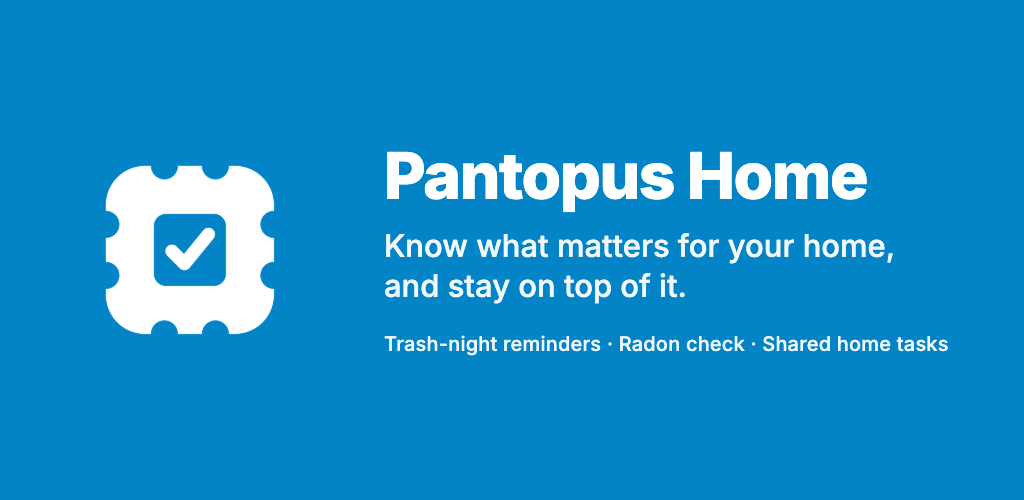
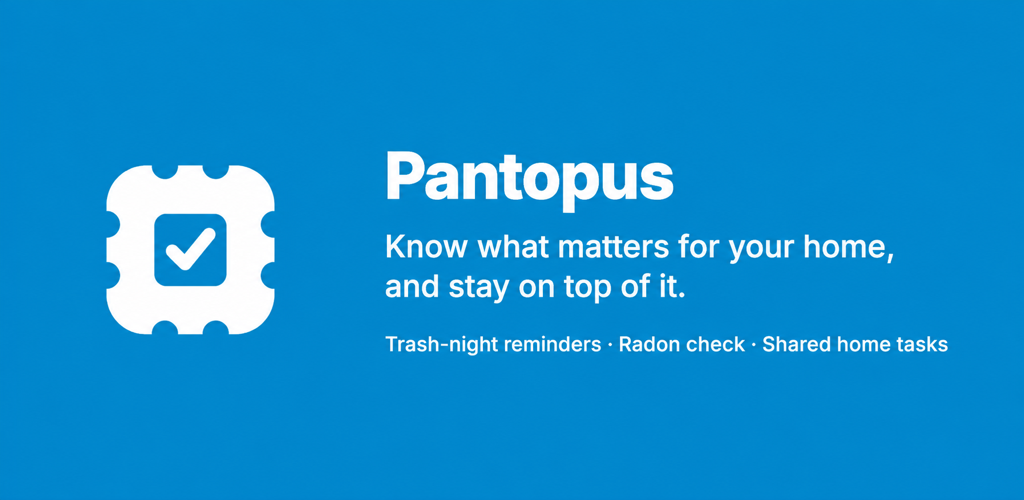
Prepare 2.0.4 updates for the original Pantopus store apps

diff --git a/frontend/apps/web/tests/associationFiles.test.ts b/frontend/apps/web/tests/associationFiles.test.ts
@@ -88,7 +88,7 @@ describe('tools/gen-association-files.mjs', () => {
     fs.rmSync(dir, { recursive: true, force: true });
   });
 
-  test('upserts the native Android statement, keeps legacy entries, is idempotent, --check agrees', () => {
+  test('upserts the published Android statement, keeps pilot entries, is idempotent, --check agrees', () => {
[1 lines of base64/hex data omitted]
     const fp2 = '11:22:33:44:55:66:77:88:99:00:aa:bb:cc:dd:ee:ff:11:22:33:44:55:66:77:88:99:00:aa:bb:cc:dd:ee:ff';
     const env = { WELL_KNOWN_DIR: dir, APPLE_TEAM_ID: '6UYZBA546R', ANDROID_SHA256_FINGERPRINTS: `${fp1}, ${fp2}` };
@@ -97,8 +97,10 @@ describe('tools/gen-association-files.mjs', () => {
     expect(runGenerator(env).code).toBe(0);
 
     const list = readJson(path.join(dir, 'assetlinks.json'));
-    expect(list.find((s: any) => s.target.package_name === LEGACY_ANDROID)).toBeTruthy();
-    const native = list.find((s: any) => s.target.package_name === NATIVE_ANDROID);
+    expect(list.find((s: any) => s.target.package_name === NATIVE_ANDROID)).toEqual(
+      readJson(ASSETLINKS).find((s: any) => s.target.package_name === NATIVE_ANDROID),
+    );
+    const native = list.find((s: any) => s.target.package_name === LEGACY_ANDROID);
     expect(native.relation).toEqual([
       'delegate_permission/common.handle_all_urls',
       'delegate_permission/common.get_login_creds',
@@ -123,7 +125,7 @@ describe('tools/gen-association-files.mjs', () => {
     const env = { WELL_KNOWN_DIR: dir, APPLE_TEAM_ID: 'ZZZZZZZZZZ' };
     expect(runGenerator(env).code).toBe(0);
     const aasa = readJson(path.join(dir, 'apple-app-site-association'));
-    expect(aasa.applinks.details.map((d: any) => d.appID)).toEqual([LEGACY_IOS, NATIVE_IOS, 'ZZZZZZZZZZ.app.pantopus.ios']);
+    expect(aasa.applinks.details.map((d: any) => d.appID)).toEqual([LEGACY_IOS, NATIVE_IOS, 'ZZZZZZZZZZ.com.pantopus.app']);
   });
 
   test('rejects malformed fingerprints / team ids and refuses to run with nothing to do', () => {

diff --git a/scripts/android/home-task-recurrence-journey.py b/scripts/android/home-task-recurrence-journey.py
@@ -17,7 +17,7 @@ import time
 import urllib.request
 import xml.etree.ElementTree as ET
 
-PACKAGE = 'app.pantopus.android.debug'
+PACKAGE = 'com.pantopus.app.debug'
 ACTIVITY = PACKAGE + '/app.pantopus.android.MainActivity'
 AVD = 'Pantopus_Home_Recurrence_Acceptance'
 ORIGIN = 'http://127.0.0.1:18083'

diff --git a/docs/release/prod-config-checklist.md b/docs/release/prod-config-checklist.md
@@ -191,20 +191,13 @@ Each has a default that the steps below follow until you change it here.
   `api.pantopus.app`, which has no DNS; L4 switches them.) Also point
   `pantopus.app` and `www.pantopus.app` at the website (step P10): the apps share
   `https://pantopus.app` links.
-- [x] **D2 Store listings.** Decided October 6, as recommended. Default: new listings for `app.pantopus.ios` and
-  `app.pantopus.android`; take the April apps off sale once the new ones are
-  live. The App Store won't accept a second app named exactly "Pantopus" while
-  the April app holds that name, so either give the new listing a longer name
-  (for example "Pantopus Home") or rename the April app first with an update.
-  The alternative, shipping the native apps as updates to `com.pantopus.app`,
-  means changing the native app IDs, push setup and signing; L4 doesn't
-  recommend it this close to the pilot.
+- [x] **D2 Store listings.** **Replaced October 23 by the founder:** update the existing **Pantopus** listings, using `com.pantopus.app` on both platforms. iOS App Store ID `6760512315`; Google Play app ID `4974977490173375457`. Prepare **2.0.4** as the next update. Do not rename the original app, take it off sale, or publish the separate Pantopus Home records (`6821263216` / `app.pantopus.ios`, and `app.pantopus.android`). Earlier October 6–22 new-listing instructions and build evidence below are historical.
 - [x] **D3 Production database.** Decided October 8: create a new production
   Supabase project from the canonical migrations and transfer April users'
   logins and matching app profiles after an isolated rehearsal. Preserve the
   Auth identities needed for email, Google and Apple sign-in; leave April's
   Homes, Trains and other product data in the old project. The founder runs
-  the reviewed production import. See [the Auth transfer runbook](production-auth-transfer.md).
+  the reviewed production import. **Reconfirmed October 23:** transfer sign-ins and matching profiles only; existing users start with fresh content. Complete old-account sign-in checks before releasing 2.0.4. See [the Auth transfer runbook](production-auth-transfer.md).
 - [x] **D4 Payments during the pilot.** Decided October 6, as recommended. Default: production uses Stripe **test**
   keys until you activate live payments; no pilot journey takes money. Pilot
   store builds then carry the matching `pk_test_` key (L4 adjusts the Android
@@ -1120,6 +1113,66 @@ dispute opens.
 
 ## 4. Store builds
 
+### Current direction — October 23: update the original Pantopus apps
+
+This section supersedes the historical signing/upload instructions below. Both stores still serve 1.5.0. The next intended version is **2.0.4**; do not trigger a beta upload until its signing and service configuration are correct.
+
+| Setting | Required value |
+|---|---|
+| iOS record / main bundle | `6760512315` / `com.pantopus.app` |
+| iOS widget bundle | `com.pantopus.app.widgets` |
+| iOS signing team | `6UYZBA546R` (same as published 1.5.0) |
+| App Group | Reuse `group.app.pantopus.ios`; both original app and renamed widget need membership and matching profiles |
+| Android record / application ID | `4974977490173375457` / `com.pantopus.app` |
+| Android Kotlin namespace | Keep `app.pantopus.android`; this is source packaging, not the store identity |
+| Android debug application ID | `com.pantopus.app.debug` |
+| Store title | `Pantopus` |
+
+- [x] Read the original records: iOS 1.5.0 (84), iPhone family, team `6UYZBA546R`; Android original production listing exists. The old Android Play-signing SHA-256 matches the repository's `com.pantopus.app` association.
+- [x] Created the original iOS record's **2.0.4 / Prepare for Submission** draft, with current description, subtitle, keywords, promotional text, update notes, support/marketing links and reviewer instructions. Manual release is selected. Updated age-rating answers (13+ in most regions) and content-rights information to the current app's answers. No build is selected or submitted.
+- [x] Saved the original Play listing's current title, descriptions, icon, feature graphic and four phone screenshots as a draft. Removed obsolete tablet screenshot references; no new tablet screenshots are claimed. No changes were sent for review.
+- [x] Replaced repository store screenshots with actual October 23 native captures of welcome, Place, Today and household tasks. iPhone images are 1320×2868 (large Dynamic Island display); Android images are 1080×2400. Synthetic test household only. Apple's four images are saved in the large-display slot and inherited by smaller sizes; obsolete 1.5.0 screenshot references were removed from the editable version.
+- [x] Saved an additive Play Data safety draft: optional health/audio collection, device-ID functionality/security purposes, contact account-management purposes, and the current account-deletion URL. Kept existing legacy declarations pending a review covering every distributed version. See the compliance document's transition note; this is not final compliance approval.
+- [x] Local checks: iOS simulator build and Android debug assembly passed under the restored identities; Android ktlint/detekt, both Ruby Fastfile syntax checks, existing native-config tests (6), and association-file tests (5) passed. Both apps signed into a real local backend/database and displayed the same synthetic home/tasks. Created tasks persisted across iOS relaunch and were visible on Android; Android sign-in persisted after force-stop/relaunch. Initial native evidence used base `fc3223d3f`; these checks do not prove release signing, old-account transfer or a physical upgrade.
+- [ ] iOS: the original App ID already has Apple sign-in, push and associated domains. **App Groups is not enabled**, and `com.pantopus.app.widgets` was absent on October 23. Assign the existing `group.app.pantopus.ios` to the original app and register/assign the renamed widget. Generate matching App Store profiles in the signing repository; CI's readonly match cannot create them. Reuse the team's distribution certificate where valid.
+- [ ] Android: supply the **original app's upload keystore**. Its downloaded upload certificate has SHA-256 `20:D3:0B:09:8D:06:A4:E1:9D:E1:40:65:EF:70:96:55:EF:4D:F7:91:BB:89:BB:DA:33:48:F7:0B:B1:F3:FB:8B`. The saved Pantopus Home upload key is different and cannot upload an update to the original app. Recover the original key from the prior build service/local backup; a Play upload-key reset is a separate founder action if recovery fails. Do not rotate the Play app-signing key.
+- [ ] Android: the release Firebase JSON must contain `com.pantopus.app` in the backend's FCM project; staging debug needs `com.pantopus.app.debug`. The checked-in file is a build-only placeholder. Match Maps/OAuth restrictions to the original package and its Play-signing certificate. Ensure the existing Play service account can access the original listing.
+- [ ] Founder: align production `APNS_BUNDLE_ID=com.pantopus.app` with the release and verify a physical push. The backend currently has one global APNs topic; changing it does not also support the separate `app.pantopus.ios` pilot tokens. Keep this coordinated with the release, rather than changing only the native build.
+- [ ] Complete D3's Auth/profile transfer and verify old email/password, Google and Apple sign-ins as applicable; fresh content is the approved behavior. Explain the content reset in the store update notes. New minimum iOS is 17; the old build supported 15.1.
+- [ ] Validate a fresh install, and then an in-place **1.5.0 → 2.0.4** update on physical phones without uninstalling. Check sign-in, notification taps, links, widgets, relaunch, and old local data handling. Simulator/emulator builds alone cannot establish a store-signed upgrade.
+- [ ] Upload signed builds to the original records. Existing 2.0.x uploads under the separate identities cannot be moved across records. iOS build numbers come from the original TestFlight history; Android version codes must exceed every used code on the original listing.
+- [ ] Finish privacy labels/Data safety and verify dedicated reviewer access against production. Apple privacy's final data-type action is **Publish and Continue**, so the form was cancelled without publishing; reconcile the live 1.5.0 collection before the cutover. Play's additive draft still needs the legacy/current-version review and its separate data-deletion URL verified. Review credentials were not replaced or validated. The App Store icon comes from the new binary; uploading screenshots alone does not replace it.
+- [ ] Founder submits and releases after these gates pass. Use manual release on iOS and keep Android listing/release edits unsubmitted while preparing.
+
+Draft-only listing commands (after loading the correct private credentials):
+
+```sh
+# frontend/apps/ios; saves metadata/screenshots without a binary or review submission
+bundle exec fastlane listing version:2.0.4
+# frontend/apps/android; commits listing edits without sending changes for review
+bundle exec fastlane listing
+```
+
+The `release` lanes submit/promote builds and remain founder actions. The existing store links on the website already point to the correct original records.
+
+**Android key recovery, October 23:** no file matching the original upload
+certificate was found in the checked Mac locations (Downloads, Documents,
+Desktop, cloud-storage folders, Expo/EAS config folders, Library keystore
+files, or the old source ZIP). The old Expo/EAS account or an external backup
+could still hold it. The certificate downloaded from Play is public and cannot
+sign a build. If recovery fails, use **App integrity → App signing → Request
+upload key reset** on the original record. A replacement upload key only
+changes what Google accepts for uploads; keep Play's existing app-signing key
+so installed users retain their update path. A usable private upload key
+already exists on this Mac for the separate pilot; the founder can choose to
+register its public PEM certificate as the replacement instead of creating
+another key. No key reset, credential upload or hosted secret change was
+performed in this preparation. After Google's reset is effective, align the
+private release signing values and validate a signed internal-track update.
+
+### Historical October 6–22 setup (different app identities)
+
+
 ### iOS (TestFlight, then App Store)
 
 - [x] Already registered (found October 13; see the verification section at the
@@ -1198,7 +1251,7 @@ native access checks; passing data and offline checks alone does not close this 
 
 - [x] Founder approved the listing text, screenshots, privacy answers and the
   account-deletion page on October 7 (decisions A and B are written into the
-  privacy scripts). Both listings use the name "Pantopus Home" per D2.
+  privacy scripts). The October 23 D2 amendment changes both store titles to "Pantopus".
 - [x] L4: the approved files are where the lanes read them. iOS: text in
   `frontend/apps/ios/fastlane/metadata/en-US/` and 8 iPhone screenshots
   (6.9-inch, 1320 × 2868) in `frontend/apps/ios/fastlane/screenshots/en-US/`;

diff --git a/docs/persistent-login/ASSOCIATION-FILES.md b/docs/persistent-login/ASSOCIATION-FILES.md
@@ -14,39 +14,26 @@ They gate four things the design depends on:
 | `assetlinks.json` → `common.handle_all_urls` | Android App Links (`autoVerify`) | same deep links on Android |
 | `assetlinks.json` → `common.get_login_creds` | Credential Manager: saved passwords / passkeys / Sign in with Google for the app are shared with the site | L3 on Android (Phase 3) |
 
-## Current state (2026-08-18)
+## Current state (October 23, 2026)
 
-- **iOS — done.** `6UYZBA546R.app.pantopus.ios` was added to `applinks.details`
-  (same paths as the legacy entry) and to `webcredentials.apps`. The legacy Expo
-  entry `6UYZBA546R.com.pantopus.app` is kept until that app is retired.
-  ⚠ The Team ID `6UYZBA546R` is inherited from the Expo app; the native
-  project's `DEVELOPMENT_TEAM` is intentionally blank in
-  `frontend/apps/ios/project.yml`. **Confirm the native app is signed by the
-  same team** (Xcode → Signing & Capabilities → Team, or
-  `security find-identity -v -p codesigning`). If it is a different team, rerun
-  the generator with the right `APPLE_TEAM_ID`.
-- **Android — source updated October 21, 2026.** `app.pantopus.android` now
-  carries the current Play app-signing certificate published in Play Console's
-  Digital Asset Links JSON, plus the two certificates in its previous
-  quantum-ready signing-key download (first used October 16). The public DER
-  certificate fingerprints were verified with `openssl x509 -fingerprint -sha256`.
-  The existing generator preserves the legacy `com.pantopus.app` statement and
-  supplies both App Links and Credential Manager relations. No debug or upload
-  certificate is included: this statement targets installs signed by Play.
-  Recheck the hosted JSON after deployment and verify links on a Play-installed
-  device; source correctness alone does not prove OS verification.
+The founder chose to update both original Pantopus listings under `com.pantopus.app`. Keep the `app.pantopus.ios` and `app.pantopus.android` entries for already distributed pilot builds, but the generator now defaults to the original store identities.
+
+- iOS: `6UYZBA546R.com.pantopus.app` already has the current Universal Link paths and web credentials. The published 1.5.0 build uses the same signing team. Preserve the pilot entry as well.
+- Android: the original app's Play Console Digital Asset Links snippet was rechecked October 23. Its Play-signing SHA-256 is `33:60:AE:F8:09:B6:BF:18:3F:FB:DE:4F:F7:CD:BD:68:0A:F0:2E:5F:84:61:5A:2E:9A:A0:F3:89:EF:73:02:EF`. The original statement now includes both App Links and Credential Manager relations. Keep the separate pilot statement and its existing signing history.
+- A Play upload-key reset does not change the Play app-signing certificate or this production statement. Never add the upload or debug certificate to the production association to work around a signing mismatch.
+- Hosted JSON and physical, store-installed app verification remain separate checks after deployment.
 
 ## What values are needed
 
 | Variable | Where to get it |
 |---|---|
-| `APPLE_TEAM_ID` | Apple Developer → Membership → Team ID; must equal the team that signs `app.pantopus.ios` |
-| `IOS_BUNDLE_ID` | `app.pantopus.ios` (default) |
-| `ANDROID_PACKAGE` | `app.pantopus.android` (default; `applicationId` in `frontend/apps/android/app/build.gradle.kts`) |
-| `ANDROID_SHA256_FINGERPRINTS` | Comma-separated. Include **all** of: |
+| `APPLE_TEAM_ID` | Apple Developer → Membership → Team ID; must equal the team that signs `com.pantopus.app` |
+| `IOS_BUNDLE_ID` | `com.pantopus.app` (default) |
+| `ANDROID_PACKAGE` | `com.pantopus.app` (default; `applicationId` in `frontend/apps/android/app/build.gradle.kts`) |
+| `ANDROID_SHA256_FINGERPRINTS` | Comma-separated. Use the applicable **Play app-signing certificates**: |
 | | 1. **Play App Signing certificate** — Play Console → *Setup* → *App signing* → "App signing key certificate" → SHA-256. This is what production/internal-testing installs from Play are signed with. |
-| | 2. **Upload certificate** — same page, "Upload key certificate" → SHA-256, or locally: `keytool -list -v -keystore pantopus-release.jks -alias "$PANTOPUS_KEY_ALIAS"` (needs the CI keystore secrets). Needed for APKs installed directly from CI artifacts. |
-| | 3. *(debug builds only, never in production)* the debug keystore: `keytool -list -v -keystore ~/.android/debug.keystore -alias androiddebugkey -storepass android`. Note debug builds use `applicationIdSuffix ".debug"` → package `app.pantopus.android.debug`; add a separate statement for it if you need App Links on debug builds. |
+| | Upload certificates are for validating uploads; do not add them to the production statement. Test direct-install builds against an isolated development association instead. |
+| | *(debug builds only, never in production)* the debug keystore: `keytool -list -v -keystore ~/.android/debug.keystore -alias androiddebugkey -storepass android`. Note debug builds use `applicationIdSuffix ".debug"` → package `com.pantopus.app.debug`; add a separate statement for it if you need App Links on debug builds. |
 
 Play Console also shows the exact JSON it expects under *Grow* → *Deep links*
 (or *Setup* → *App signing* → "Digital Asset Links JSON snippet"). Copy the
@@ -57,7 +44,7 @@ fingerprint from there rather than retyping it.
 ```bash
 # from the repo root; node >= 18, no deps
 APPLE_TEAM_ID=6UYZBA546R \
-ANDROID_SHA256_FINGERPRINTS="<play-app-signing-sha256>,<upload-key-sha256>" \
+ANDROID_SHA256_FINGERPRINTS="<play-app-signing-sha256>" \
 node tools/gen-association-files.mjs
 
 # CI / pre-commit style guard: exit 1 if the files would change
@@ -81,7 +68,7 @@ elsewhere (used by the tests/scratch runs).
 2. Apple's CDN copy (what devices actually fetch; can lag up to ~24 h after
    deploy — Apple caches it):
    `curl -s https://app-site-association.cdn-apple.com/a/v1/pantopus.com | jq .`
-   Look for `6UYZBA546R.app.pantopus.ios` in `applinks.details[].appID` **and**
+   Look for `6UYZBA546R.com.pantopus.app` in `applinks.details[].appID` **and**
    `webcredentials.apps`.
 3. On a device with the TestFlight build: Settings → Developer → *Universal
    Links* → *Diagnostics* → enter `https://pantopus.com/join/abc` → should say
@@ -99,11 +86,11 @@ elsewhere (used by the tests/scratch runs).
    relation for a given package):
    `https://digitalassetlinks.googleapis.com/v1/statements:list?source.web.site=https://pantopus.com&relation=delegate_permission/common.handle_all_urls`
    — the response must list a statement with `target.androidApp.packageName ==
-   "app.pantopus.android"` and the certificate SHA-256 you expect. Repeat with
+   "com.pantopus.app"` and the certificate SHA-256 you expect. Repeat with
    `relation=delegate_permission/common.get_login_creds`.
 3. On a device with the Play build installed:
-   `adb shell pm get-app-links app.pantopus.android` → `pantopus.com: verified`
-   (`adb shell pm verify-app-links --re-verify app.pantopus.android` to force a
+   `adb shell pm get-app-links com.pantopus.app` → `pantopus.com: verified`
+   (`adb shell pm verify-app-links --re-verify com.pantopus.app` to force a
    re-check). If it says `legacy_failure`/`1024`, the fingerprint does not match
    the installed APK's signer: `keytool -printcert -jarfile app.apk`.
 4. Play Console → *Grow* → *Deep links* shows per-domain verification status
@@ -120,7 +107,7 @@ elsewhere (used by the tests/scratch runs).
 - **iOS entitlements** (`webcredentials:pantopus.com` etc.) — iOS layer
   (`Pantopus.entitlements` **and** `project.yml`, because `make bootstrap`
   regenerates the entitlements from `project.yml`).
-- Removing the legacy Expo identifiers — only after that app is unpublished.
+- Removing either original store identity or existing pilot associations — the October 23 decision retains them.
 
 ## Change control
 

diff --git a/NEXT_STEPS.md b/NEXT_STEPS.md
@@ -185,8 +185,14 @@ Sessions you start for one job (Instant Screens, Nearby Plans, single fixes) wor
 - [x] Measured first-party: the hero's preview beacon carries `surface: home`, and the funnel route is set to `home` unless a mailed card already set one.
 - [x] Publish now. On October 22 you said "Merge #2573 through the queue now, even before the production address keys are set up," which replaces D6's wait. Merging PR 2573 deploys pantopus.com.
 - [ ] Yours: the Lob, Smarty and Google Address Validation keys in production (deferred since October 9). Until then a new address can't be validated or a home added there without a cached validation, though the homepage's step 2 invites people to set up their home.
-- [x] October 23: the store links are back on. You confirmed the public listings, the App Store's "Pantopus" (id 6760512315) and Google Play's `com.pantopus.app`, and asked for a QR code and a phone-aware link. Phones get their own store's badge on the homepage. Computers get one QR code that opens `pantopus.com/get`, which sends each phone to its store. The share pages' download buttons and Safari's app banner come back with the same links. Both listings serve version 1.5.0 (May); the 2.0.x builds in this repo use different app ids (`app.pantopus.ios`, `app.pantopus.android`).
+- [x] October 23: the store links are back on. You confirmed the public listings, the App Store's "Pantopus" (id 6760512315) and Google Play's `com.pantopus.app`, and asked for a QR code and a phone-aware link. Phones get their own store's badge on the homepage. Computers get one QR code that opens `pantopus.com/get`, which sends each phone to its store. The share pages' download buttons and Safari's app banner come back with the same links. Both listings serve version 1.5.0 (May); the 2.0.x builds at that point used different app ids (`app.pantopus.ios`, `app.pantopus.android`). The later October 23 decision below replaces that setup.
 - D14 (the `/start` copy) was not changed after a closer look. The "Founding Neighbor slots" line only shows while a block's founding slots are really open. The privacy promise's "it works by mail" (web, iOS, Android) becomes true again with the same provider keys.
+
+**Made by the founder on October 23 (existing store apps).**
+
+- [x] Keep the original **Pantopus** listings and ship the native apps as 2.0.x updates: iOS App Store ID `6760512315`, iOS bundle and Android application ID `com.pantopus.app`, Google Play app ID `4974977490173375457`. This replaces D2's new-listing plan. Keep the Pantopus name; do not rename the original app or remove it from sale. The unused Pantopus Home records are not release targets.
+- [x] Existing users retain their sign-ins, with fresh content. Do not import April homes, messages, posts, tasks or other product content. The Auth/profile transfer and old-account sign-in checks must finish before releasing the update.
+- [ ] Prepare version **2.0.4** on both original listings, validate signing, notifications and sign-in, and verify an upgrade from installed 1.5.0 without uninstalling. See [the current store-build checklist](docs/release/prod-config-checklist.md#4-store-builds). Draft preparation does not establish a working store upgrade or release.
 
 **Still open. The brief builds the default until you decide.**
 

diff --git a/docs/compliance/appstore-privacy-labels.md b/docs/compliance/appstore-privacy-labels.md
@@ -2,8 +2,8 @@
 
 **Derived from:** `docs/compliance/privacy-data-inventory.md`
 **Mirrors:** `frontend/apps/ios/Pantopus/PrivacyInfo.xcprivacy`
-**Bundle:** `app.pantopus.ios`
-**Last reviewed:** 2026-10-07 (founder approved these answers; earlier: Health added for emergency info, location provider wired)
+**Bundle:** `com.pantopus.app`
+**Last reviewed:** 2026-10-23 (console type names checked; underlying collection and purposes remain the founder-approved October 7 answers)
 
 These are the answers to enter in **App Store Connect → your app → App
 Privacy**. This is human/console work; this file is the script for it. Every
@@ -57,11 +57,19 @@ Apple groups by category → type. Enter each, then pick **purposes**,
 |------|-----------|------------|--------|----------|
 | Photos or Videos | Yes | App Functionality | Yes | No |
 | Audio Data | Yes | App Functionality | Yes | No |
-| Other User Content (messages, posts, listings, gigs, reviews, documents) | Yes | App Functionality | Yes | No |
+| Emails or Text Messages | Yes | App Functionality | Yes | No |
+| Other User Content (posts, listings, gigs, reviews, documents) | Yes | App Functionality | Yes | No |
 
-> Apple's label UI folds chat messages and other content under **User
-> Content**. (The bundled manifest splits them into `EmailsOrTextMessages` +
-> `OtherUserContent` for finer granularity — same underlying data.)
+> The October 23 App Store Connect form has a separate **Emails or Text
+> Messages** checkbox under User Content. Select it as well as Other User
+> Content, matching the manifest's existing `EmailsOrTextMessages` and
+> `OtherUserContent` entries. This corrects the console instructions, not
+> the underlying data inventory or collection behavior.
+>
+> On the original Pantopus record, completing the data-type form says
+> **Publish and Continue**, so it is not an unpublished 2.0.4 draft. Coordinate
+> the label update with release and recheck the still-live 1.5.0 disclosures.
+> The October 23 preparation cancelled that form without publishing changes.
 
 ### Health & Fitness
 | Type | Collected | Purpose(s) | Linked | Tracking |
@@ -148,7 +156,7 @@ sexual orientation, etc.), Gameplay Content, Advertising Data.
 | Other Data (DOB) | ✔ Other Data Types | OtherDataTypes |
 | Financial Info | ✔ Payment Info | PaymentInfo |
 | Location | ✔ Precise + Coarse | PreciseLocation, CoarseLocation |
-| User Content | ✔ Photos/Audio/Other | PhotosorVideos, AudioData, EmailsOrTextMessages, OtherUserContent |
+| User Content | ✔ Photos/Audio/Messages/Other | PhotosorVideos, AudioData, EmailsOrTextMessages, OtherUserContent |
 | Identifiers (incl. 2026-08 device id / install id / device public key / session id) | ✔ User ID + Device ID | UserID, DeviceID |
 | Security & session records (§2.9: IP + UA, security events) | ✔ Other Data Types (note) | OtherDataTypes |
 | Health (§2.10, emergency info) | ✔ Health | Health |

diff --git a/docs/compliance/play-data-safety.md b/docs/compliance/play-data-safety.md
@@ -1,12 +1,30 @@
 # Google Play "Data safety" Form — Pantopus Android
 
 **Derived from:** `docs/compliance/privacy-data-inventory.md`
-**Package:** `app.pantopus.android`
+**Package:** `com.pantopus.app`
 **Last reviewed:** 2026-10-07 (founder approved the answers with decisions A and B below; earlier: *Health info* added for emergency info, photo rows no longer mention listings)
 
 Answers to enter in **Play Console → App content → Data safety**. Play's
 taxonomy differs from Apple's, so the same inventory is re-expressed in
 Play's terms. Human/console work; this file is the script.
+
+**Original-listing transition, October 23:** these rows describe the current
+native build. Google's [Data safety rules](https://support.google.com/googleplay/android-developer/answer/10787469?hl=en)
+require the form to cover all versions currently distributed under the same
+package. Do not remove the original listing's legacy declarations merely
+because a current-native row below says "not collected."
+
+An unpublished draft was saved on `com.pantopus.app`: added optional Health
+info and Voice or sound recordings (collected, not shared, not ephemeral;
+App functionality), added App functionality and Fraud prevention/security to
+Device IDs, added Account management to Name/Email/Phone, and changed the
+account-deletion URL to `https://pantopus.com/delete-account`. Existing legacy
+types and purposes were retained, including User IDs, Files and docs, Emails,
+Purchase history, Calendar events, and In-app search history. Reconcile these
+against the still-distributed versions before submission. Also verify the
+separate data-deletion mechanism and its existing URL; only the account-
+deletion URL was corrected in this pass. Saving the draft did not send it
+for review or publish it.
 
 ---
 
@@ -169,7 +187,7 @@ Installed apps, SMS/Call logs, Purchase history (no IAP), Advertising ID
 | Location | Approximate + Precise location | Coarse + Precise Location |
 | User Content (photos) | Photos / Videos | Photos or Videos |
 | User Content (audio) | Voice or sound recordings | Audio Data |
-| User Content (messages) | Other in-app messages | (User Content) |
+| User Content (messages) | Other in-app messages | Emails or Text Messages |
 | User Content (other) | Other user-generated content | Other User Content |
 | Identifiers (incl. 2026-08 device id / install id / device public key / session id) | Device or other IDs (App functionality + Fraud prevention, security, and compliance) | User ID + Device ID |
 | Security & session records (§2.9: IP + UA, security events) | Device or other IDs (same row, security purpose) | Other Data Types (note) |

diff --git a/docs/release/production-auth-transfer.md b/docs/release/production-auth-transfer.md
@@ -1,5 +1,7 @@
 # Production Auth transfer: April logins into the new project
 
+**Founder confirmation, October 23:** the native apps will update the original `com.pantopus.app` store listings. Transfer existing sign-ins and their matching profiles only; all product content starts fresh. Complete the rehearsal, founder-run production transfer and old-account sign-in checks before releasing 2.0.4. This instruction does not authorize a production database write.
+
 **Decision, October 8, 2026:** create a new production Supabase project from the
 canonical migrations. Preserve April users' ability to sign in, including
 email/password, Google and Apple identities. Leave April's Homes, Trains,
